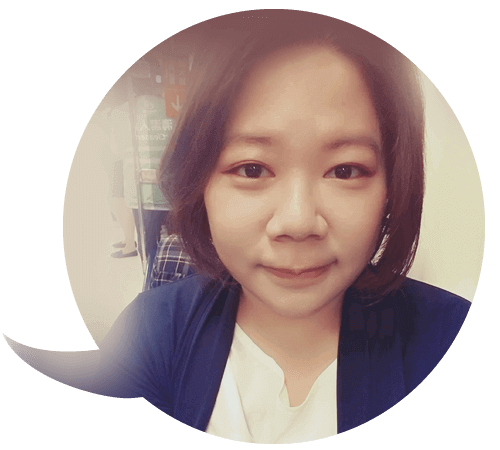
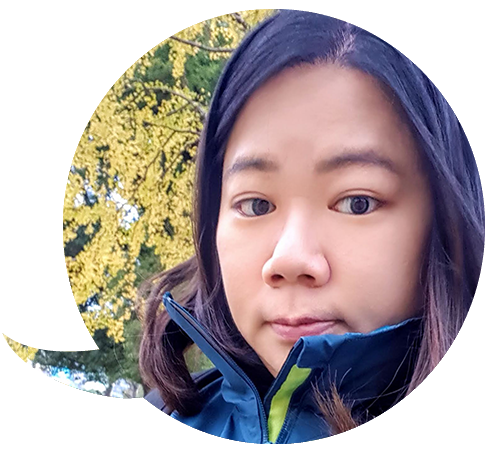
'更新大頭照，相關資料'

diff --git a/index.html b/index.html
@@ -90,8 +90,10 @@
 								<p class="wow fadeInUp" data-wow-duration="0.5s" data-wow-delay="2s"><img src="images/about/check-box.svg" alt="check">Google Analytics、Google Sitemap、Search Console</p>
 								<p class="wow fadeInUp" data-wow-duration="0.5s" data-wow-delay="2.2s"><img src="images/about/check-box.svg" alt="check">AE裝置動畫製作、Bodymovin、Lottiefiles</p><p class="wow fadeInUp" data-wow-duration="0.5s" data-wow-delay="2.2s"><img src="images/about/check-box.svg"
 										alt="check">VueJs、VueCli、Webpack ( 
-											<a href="#" target="_blank" style="color: #ff0">練習筆記</a>、
-											<a href="#" target="_blank" style="color: #ff0">VUE實作</a> )</p>
+											<a href="https://lovepinky65.github.io/js_note/" target="_blank" style="color: #ff0">JS筆記</a>、
+											<a href="https://lovepinky65.github.io/vue_note/" target="_blank" style="color: #ff0">Vue練習</a>、
+											<a href="https://github.com/lovepinky65/vuewebcode/" target="_blank" style="color: #ff0">VUE實作</a>、
+											<a href="https://lovepinky65.github.io/vueweb/" target="_blank" style="color: #ff0">VUE實作網頁</a> )</p>
 							</div>
 						</div>
 						<!-- 照片 -->
